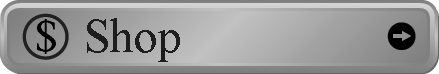
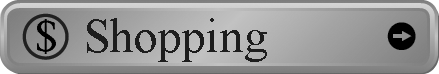
Updated images

Changed region(s): [[0.4146, 0.4054, 0.6219, 0.8378], [0.4738, 0.2432, 0.5034, 0.2973]]

diff --git a/Week1/shop.html b/Week1/shop.html
@@ -20,7 +20,7 @@
 	
 		<header>
 			<h1>
-				Shopping Tasks
+				Shopping
 			</h1>
 		</header>
 		
